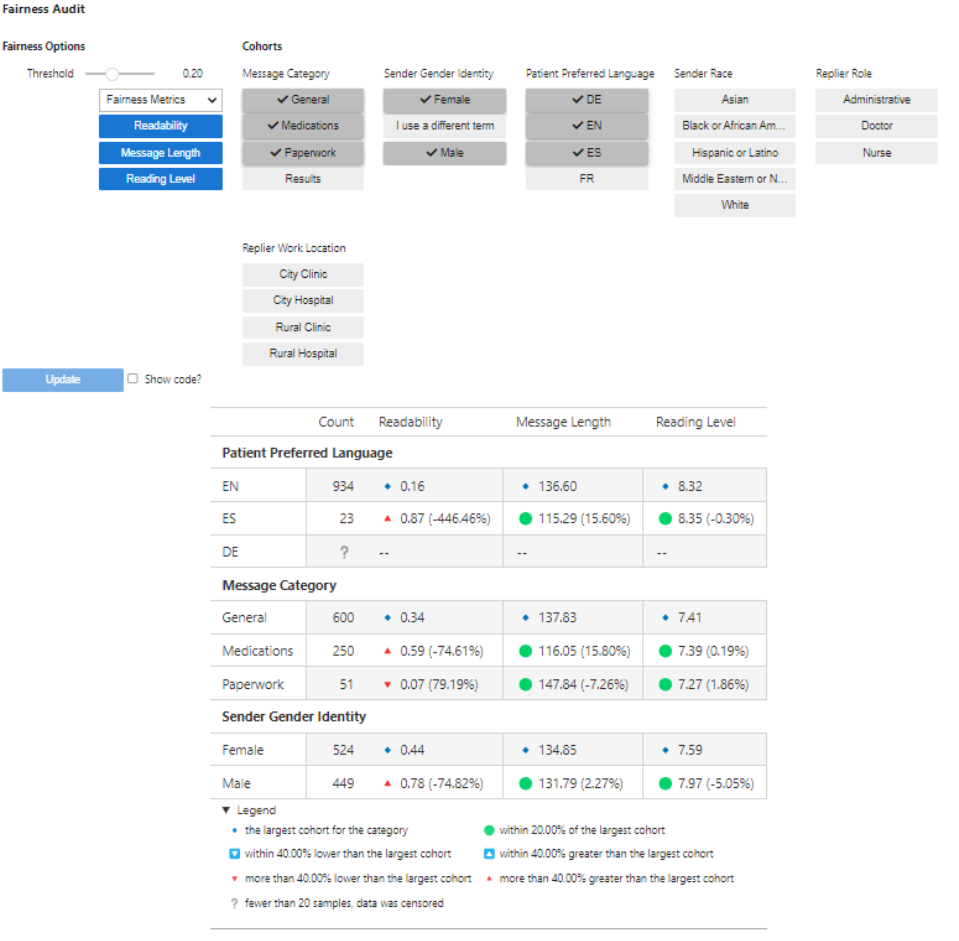
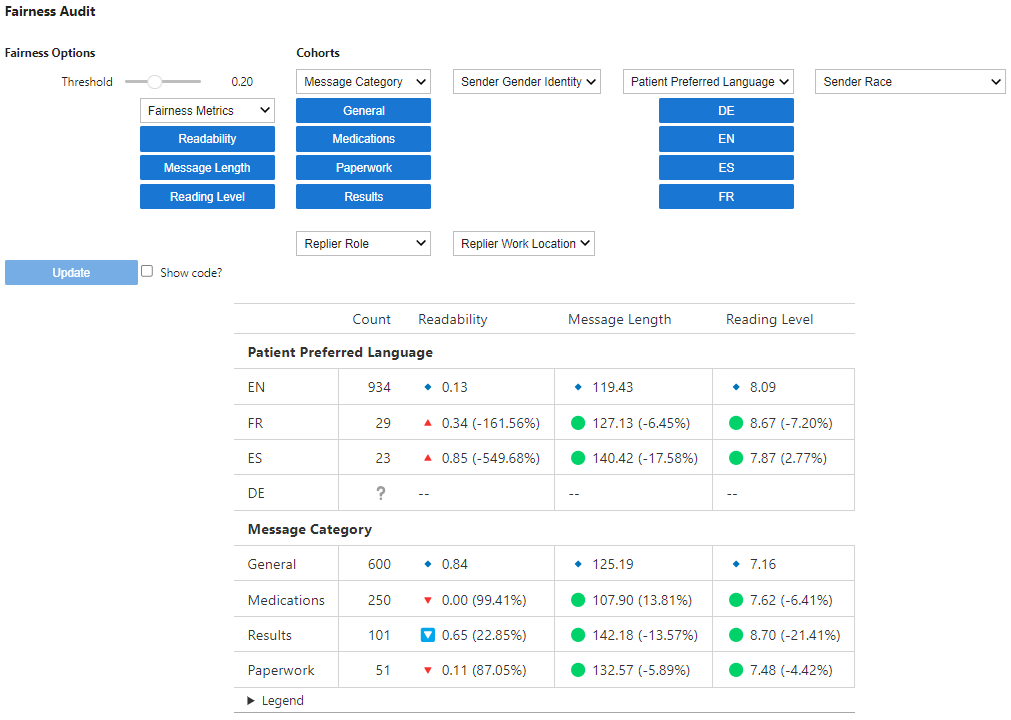
update RFC with screenshots

diff --git a/text/0002-new-fairness-table.md b/text/0002-new-fairness-table.md
@@ -6,7 +6,7 @@
 # Summary
 [summary]: #summary
 
-Aequitas uses altair plots to display information, and when hosted in a notebook this causes a number of awkward issues to code around (loading in a frame, loading in vscode, etc). In addition, when there are many different cohort splits that need to be evaluated, the horizontal nature of the table leads to a difficult to read table. 
+[Aequitas](https://github.com/dssg/aequitas) uses altair plots to display information, and when hosted in a notebook this causes a number of awkward issues to code around (loading in a frame, loading in vscode, etc). In addition, when there are many different cohort splits that need to be evaluated, the horizontal nature of the table leads to a difficult to read table. 
 
 # Motivation
 [motivation]: #motivation
@@ -20,15 +20,20 @@ Working with Aequitas's current fairness audit bring in additional complexity an
 
 * Explain the design in enough detail that somebody familiar with the area would understand it and somebody familiar with the code could implement it.
 
-Rather than levering aequitas, we will use great_tables to display a list of computed metrics, as well as the percentage disparity between the a default cohort (the largets subgroup for a chort category) and each other cohort value (excepting any cohort that falls below the censoring threshold). 
+Rather than leveraging [aequitas](https://github.com/dssg/aequitas), we will use [great_tables](https://github.com/posit-dev/great-tables) to display a list of computed metrics, as well as the percentage disparity between the a default cohort (the largest subgroup for each chort category) and every other cohort value (excepting any cohort that falls below the censoring threshold).
 
 An example table for custom metrics would look like
 
 ![Fairness table for GenAI use case](fairness_genai.png)
 
-We will have out of the box support for Binary Classifiers, including common existing metrics (false positive rate, accuracy, ppv, etc), that are computed based on a model threshold. This will enables us to drop support for aequitas while maintaining the same functionality.
+We will have out of the box support for Binary Classifiers, including common existing metrics (false positive rate, accuracy, ppv, etc), that are computed based on a model threshold. As a result we can drop support for aequitas while maintaining the same functionality.
 
-### TODO add screenshot for BINARY CLASSIFIER
+![Fairness Options for Binary Classifier](fairness_header_binary_classifier.png)
+
+The output table will be consistent across any model/model metrics, giving a common framework for looking at results at a glance.  There will be a legend to inform people of the iconography used.
+
+![Fairness Table for Binary Classier](fairness_table_binary_classifier.png)
+
 
 ## Custom Metric API
 
@@ -36,7 +41,7 @@ We will also support the creation of custom metrics that are not threshold depen
 
 ```python
 import pandas as pd
-from seismometer.data import MetricFunctions
+from seismometer.data.performance import MetricGenerator
 from random import random
 
 def create_random_realistic_metrics(data: pd.DataFrame, **kwargs):
@@ -48,19 +53,20 @@ def create_random_realistic_metrics(data: pd.DataFrame, **kwargs):
             "Reading Level": 7 + 2*random(),
            }
 
-fake_metrics = MetricFunctions(["Readability", "Message Length", "Reading Level",] create_random_realistic_metrics)
+fake_metrics = MetricGenerator(["Readability", "Message Length", "Reading Level",] create_random_realistic_metrics)
 ```
 
-The `MetricFuctions` class is a wrapper that defines a list of metrics, and can take an input dataframe (and additional kwargs) to generate those metrics. The kwargs allows passing in additional data like model thresholds or score/target descriptors which may be appropriate for some models, but not others. 
+The `MetricGenerator` class is just a wrapper that defines a list of metrics, and the callable that will generate those metrics from an input dataframe (and any additional required kwargs). The kwargs allows passing in additional data like model thresholds or score/target descriptors which may be appropriate for some models (binary classifiers), but not others. 
 
 When included as part of an Explore control, the controls header will looke like this:
 
 ![Explore control header for non-threshold metrics](fairness_header_non_binary_classifier.png)
 
-## Metrics
+## Binary Classifier Metrics
+
 For binary classifiers, we already calculate many of the base metrics that we want to compare:
 
-```["TP", "FP", "TN", "FN", "Accuracy", "Sensitivity","Specificity", "PPV", "NPV", "Flagged", "LR+", "NetBenefitScore",
+```["TP", "FP", "TN", "FN", "Accuracy", "Sensitivity","Specificity", "PPV", "NPV", "Flagged", "LR+", "NetBenefitScore","NNT@0.33"
 ]```
 
 Our current implmentation supports the following from `aequitas` - [fairness metrics](https://github.com/dssg/aequitas?tab=readme-ov-file#fairness-metrics): 
@@ -69,11 +75,11 @@ Our current implmentation supports the following from `aequitas` - [fairness met
 ["tpr", "tnr", "for", "fdr", "fpr", "fnr", "npv", "ppr", "precision", "pprev"]
 ```
 
-So we will extend our existing metrics to indclude these combinations.
+Many of these defintiions are calculated at the group level, we we will extend `seismomemter.data.performance.calculate_bin_stats` to indclude these combinations. 
 
 
 ## Changes to Seismometer Dependencies
-We will remove our current dependency on [aequitas](https://github.com/dssg/aequitas) and add a dependency to [great_tables](https://github.com/posit-dev/great-tables). The new dependency is for ease of styling the new fairness table. 
+We will remove our current dependency on [aequitas](https://github.com/dssg/aequitas) and add a dependency to [great_tables](https://github.com/posit-dev/great-tables). The new dependency is for ease of styling the new fairness table. This also lets us take advantage of updates to `great_tables` for some common styling options in the future (collapsible row groups for example).
 
 # Rationale and alternatives
 [rationale-and-alternatives]: #rationale-and-alternatives
